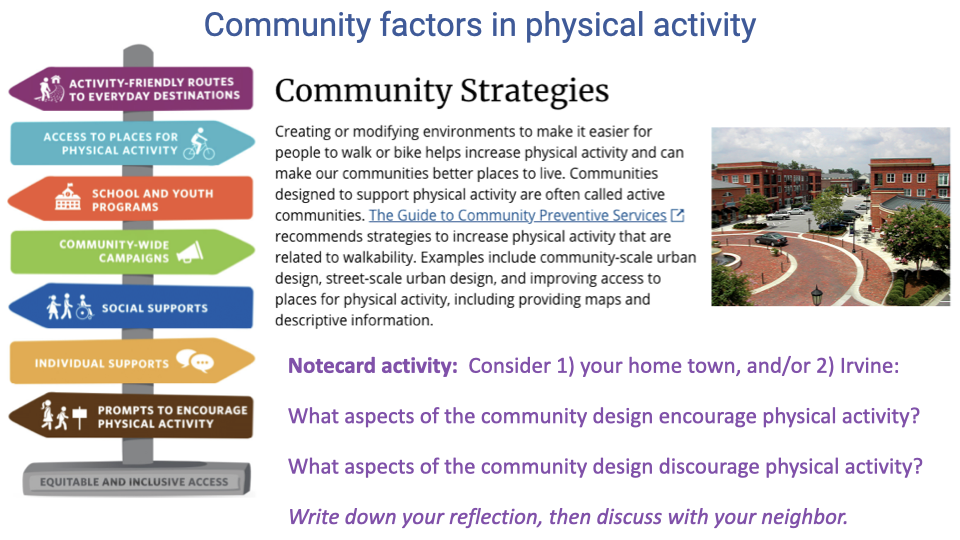
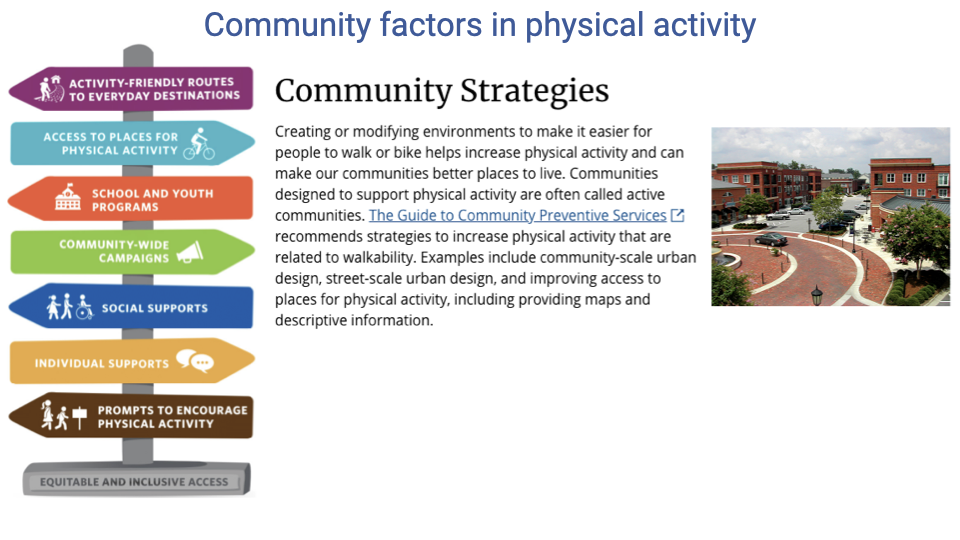
Update Lecture 21 slides 27 and 32 with corrected images
Slide 27: Updated community strategies image with signpost graphic
and detailed community design content.
Slide 32: Now includes Dr. David Williams alongside Dr. Cheryl
Anderson with updated alt text and body text.

diff --git a/week09-10/lecture21-exercise-as-medicine.md b/week09-10/lecture21-exercise-as-medicine.md
@@ -329,11 +329,11 @@ next_lecture:
 
 ### Community Factors in Physical Activity
 
-![Slide titled "Community factors in physical activity" discussing community strategies for increasing physical activity. Text describes creating or modifying environments to make it easier for people to walk and be active, including activity-friendly routes to everyday destinations. A CDC community strategies infographic is shown. Notecard activity asks students to consider their home town or Irvine: What aspects of the community design encourage physical activity? What aspects discourage physical activity?](images/lec21/slide-027.png)
+![Slide titled "Community factors in physical activity." Left side shows a colorful signpost graphic listing seven community strategy categories: activity-friendly routes to everyday destinations, access to places for physical activity, school and youth programs, community-wide campaigns, social supports, individual supports, prompts to encourage physical activity, and equitable and inclusive access. Right side describes Community Strategies: creating or modifying environments to make it easier for people to walk or bike helps increase physical activity and can make communities better places to live. The Guide to Community Preventive Services recommends strategies related to walkability, including community-scale urban design, street-scale urban design, and improving access to places for physical activity. A photo shows an urban area redesigned with pedestrian-friendly walkways and green spaces.](images/lec21/slide-027.png)
 
-- Community design has a direct impact on physical activity levels. Features that encourage activity include walkable neighborhoods, activity-friendly routes to everyday destinations, accessible parks and green spaces, and affordable recreational programs.
-- Communities designed primarily for automobile convenience — with sprawling residential areas and few pedestrian-friendly routes — discourage routine physical activity.
-- Strategies to increase community physical activity include improving infrastructure for walking and cycling, creating accessible recreational programs, and designing mixed-use developments with local amenities within walking distance.
+- The Guide to Community Preventive Services identifies seven strategy categories for increasing physical activity: activity-friendly routes, access to places for physical activity, school and youth programs, community-wide campaigns, social supports, individual supports, prompts to encourage activity, and equitable and inclusive access.
+- Community-scale and street-scale urban design — including walkable neighborhoods, pedestrian-friendly routes, green spaces, and accessible recreational facilities — directly increase physical activity levels.
+- Communities designed primarily for automobile convenience discourage routine physical activity; redesigning infrastructure for walkability and bikeability is a key public health strategy.
 
 ---
 
@@ -384,10 +384,13 @@ next_lecture:
 
 ## Slide 32
 
-![Slide continuing the discussion of redlining and neighborhood health, with additional details on the lasting impact of historical discriminatory practices on current community health infrastructure and activity access.](images/lec21/slide-032.png)
+### Social Determinants of Health: Expert Perspectives
 
-- The cumulative effects of historical redlining — reduced investment, higher pollution, fewer green spaces, and limited infrastructure — persist in affected communities today.
-- Addressing health disparities requires not only individual-level interventions (exercise prescriptions) but also systemic changes in community infrastructure, environmental policy, and equitable resource allocation.
+![Slide titled "Social justice issues with 'Exercise as Medicine.'" Left side shows a screenshot of a KPBS news interview with Dr. Cheryl Anderson, Director of the UC San Diego Center for Excellence in Health Promotion and Equity, discussing how historical redlining contributed to health disparities. Right side shows a photo of Dr. David Williams, Florence Sprague Norman and Laura Smart Norman Professor of Public Health at the Harvard T.H. Chan School of Public Health, referenced for his work on "The Social Factors of Health."](images/lec21/slide-032.png)
+
+- Dr. Cheryl Anderson's work at UC San Diego focuses on how historical redlining has contributed to persistent health disparities in affected communities.
+- Dr. David Williams at the Harvard T.H. Chan School of Public Health studies the social determinants of health — the structural and social conditions that shape health outcomes beyond individual behavior.
+- Together, their research underscores that addressing health inequities requires understanding how systemic factors (housing policy, community investment, environmental quality) interact with biological and behavioral factors to create unequal opportunities for health and physical activity.
 
 ---
 
